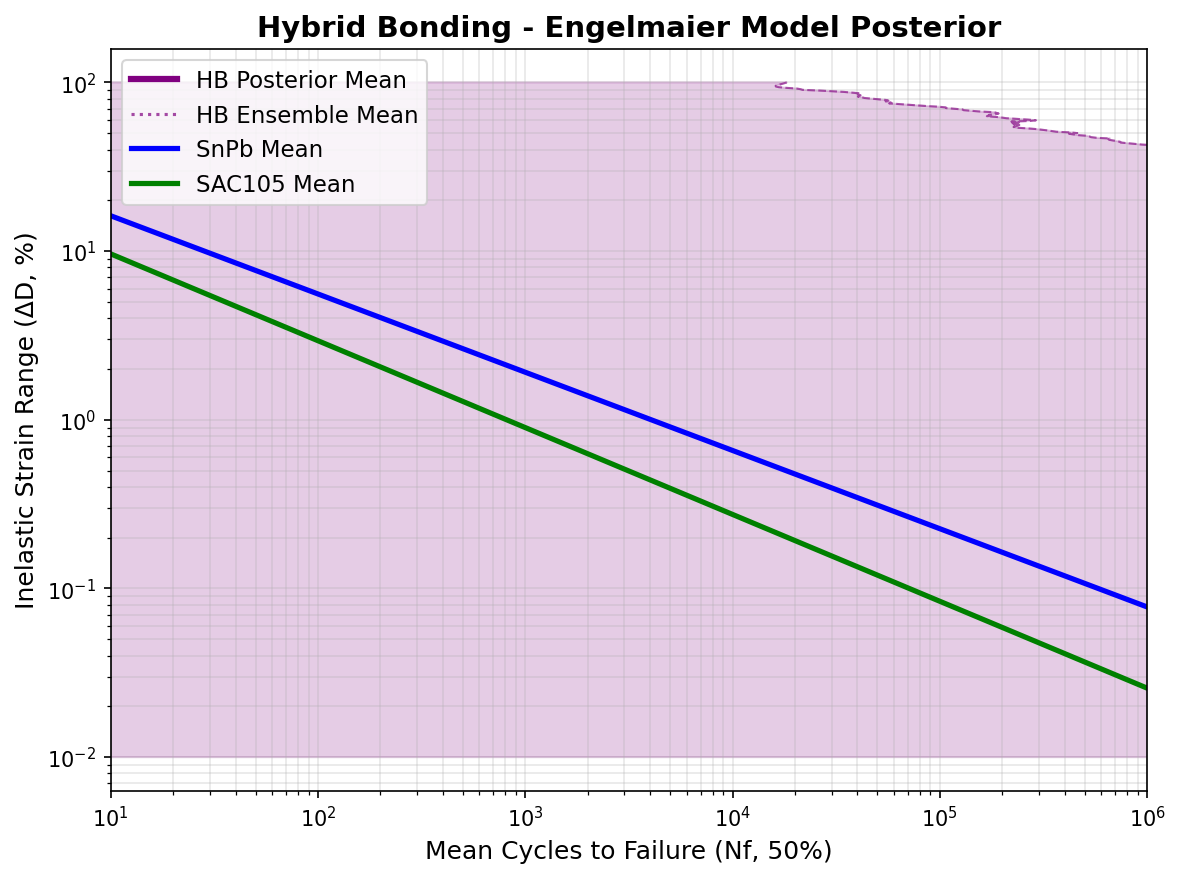
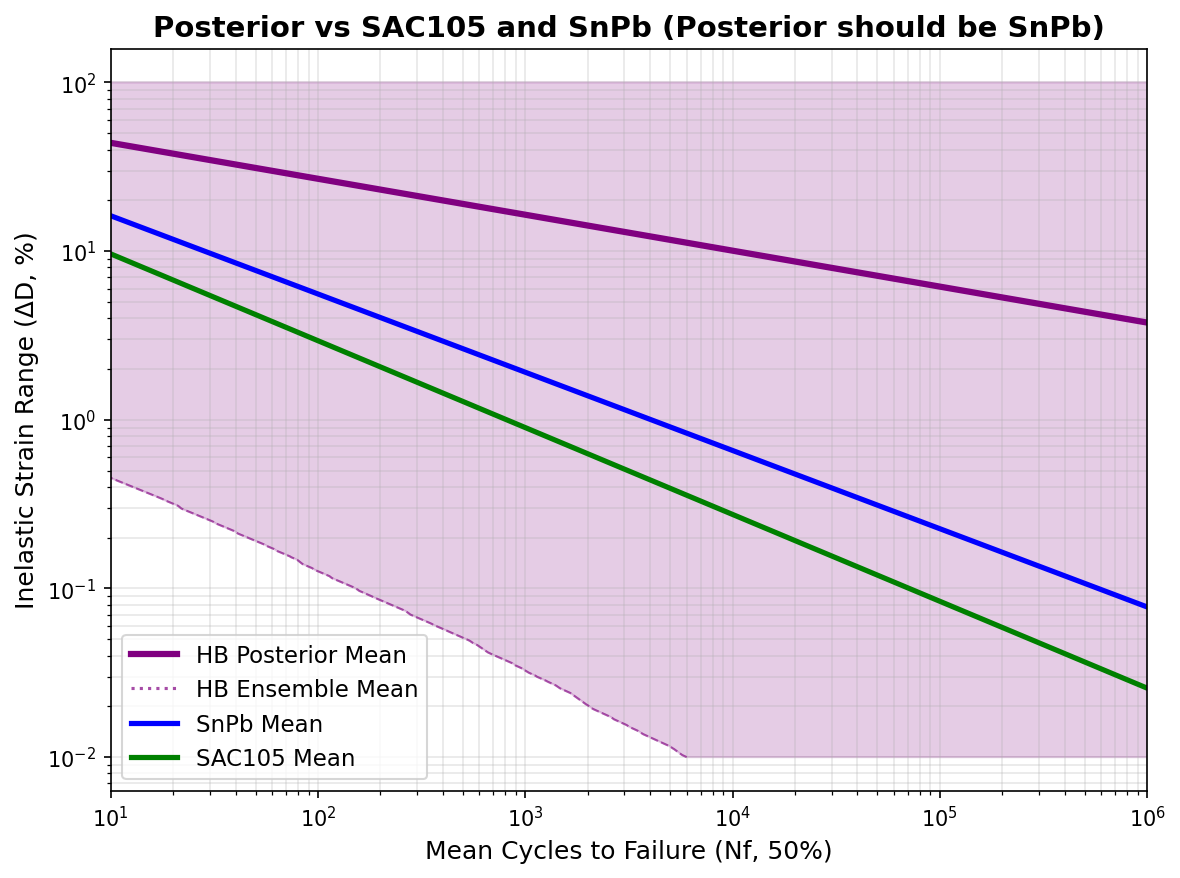
best state of graphing can get --> seems like i will need to restrict variables

diff --git a/demos/hybrid_bonding/thermomech.py b/demos/hybrid_bonding/thermomech.py
@@ -96,7 +96,7 @@ def hybrid_bonding_thermomech():
         return jnp.log(N_f)
     
     mb = stratcona.SPMBuilder(mdl_name='hb_engelmaier')
-    mb.add_params(t_0=400, meas_var = 1E5)  # Measurement variance in log-space (reasonable for data uncertainty)
+    mb.add_params(t_0=400, meas_var = 15) 
     
     mb.add_hyperlatent('e_f_nom', dists.Normal, e_f_prior)
     mb.add_hyperlatent('c_0_nom', dists.Normal, c_0_prior)
@@ -116,7 +116,7 @@ def hybrid_bonding_thermomech():
 
     mb.add_observed(
         'nf_delta_D',
-        dists.Normal,
+        dists.LogNormal,
         {'loc': 'log_engelmaier_nf', 'scale': 'meas_var'},
         1  # One observation per test condition
     )
@@ -211,8 +211,8 @@ def hybrid_bonding_thermomech():
     # Compute summary statistics
     def summarize(samples):
         mean = jnp.mean(samples, axis=0)
-        lower = jnp.percentile(samples, 5, axis=0)
-        upper = jnp.percentile(samples, 95, axis=0)
+        lower = jnp.percentile(samples, 2.5, axis=0)
+        upper = jnp.percentile(samples, 97.5, axis=0)
         return mean, lower, upper
     
     mean_hb, low_hb, high_hb = summarize(Nf_hb_all)
@@ -257,7 +257,7 @@ def hybrid_bonding_thermomech():
         100*delta_D_range,
         color="purple",
         linewidth=3,
-        label="HB Posterior Mean"
+        label="Posterior Mean"
     )
     
     # ---- Hybrid Bonding (posterior ensemble) ----
@@ -267,7 +267,7 @@ def hybrid_bonding_thermomech():
         color="purple",
         linewidth=1.5,
         linestyle=":",
-        label="HB Ensemble Mean",
+        label="Posterior 95% CI",
         alpha=0.7
     )
     
@@ -332,7 +332,7 @@ def hybrid_bonding_thermomech():
     
     plt.xlabel("Mean Cycles to Failure (Nf, 50%)", fontsize=12)
     plt.ylabel("Inelastic Strain Range (ΔD, %)", fontsize=12)
-    plt.title("Hybrid Bonding - Engelmaier Model Posterior", fontsize=14, fontweight='bold')
+    plt.title("Posterior vs SAC105 and SnPb (Posterior should be SnPb)", fontsize=14, fontweight='bold')
     plt.legend(fontsize=11)
     plt.grid(True, which="both", alpha=0.3)
     plt.tight_layout()
@@ -419,9 +419,7 @@ def hybrid_bonding_thermomech():
     
     Nf_snpb_all = jnp.stack(Nf_snpb_all)
     Nf_sac105_all = jnp.stack(Nf_sac105_all)
-    
-    mean_snpb, low_snpb, high_snpb = summarize(Nf_snpb_all)
-    mean_sac105, low_sac105, high_sac105 = summarize(Nf_sac105_all)
+
     
     #################################################################
     # -------- PLOT POSTERIOR DISTRIBUTIONS WITH PRIORS ---------------
@@ -442,8 +440,6 @@ def hybrid_bonding_thermomech():
         'c_1_nom': 6.00e-04,
         'c_2_nom': -1.74e-02
     }
-
-    model_mode = "Hybrid Bonding Thermomechanical Model"
 
     n_vars = len(posterior_samples)
     fig, axes = plt.subplots((n_vars + 1) // 2, 2, figsize=(12, 3 * ((n_vars + 1) // 2)))
@@ -477,7 +473,7 @@ def hybrid_bonding_thermomech():
     for idx in range(n_vars, len(axes)):
         fig.delaxes(axes[idx])
     
-    fig.suptitle(model_mode, fontsize=14, fontweight='bold', y=0.995)
+    fig.suptitle("Model", fontsize=14, fontweight='bold', y=0.995)
     
     plt.tight_layout()
     filename = 'posterior_distributions.png'
